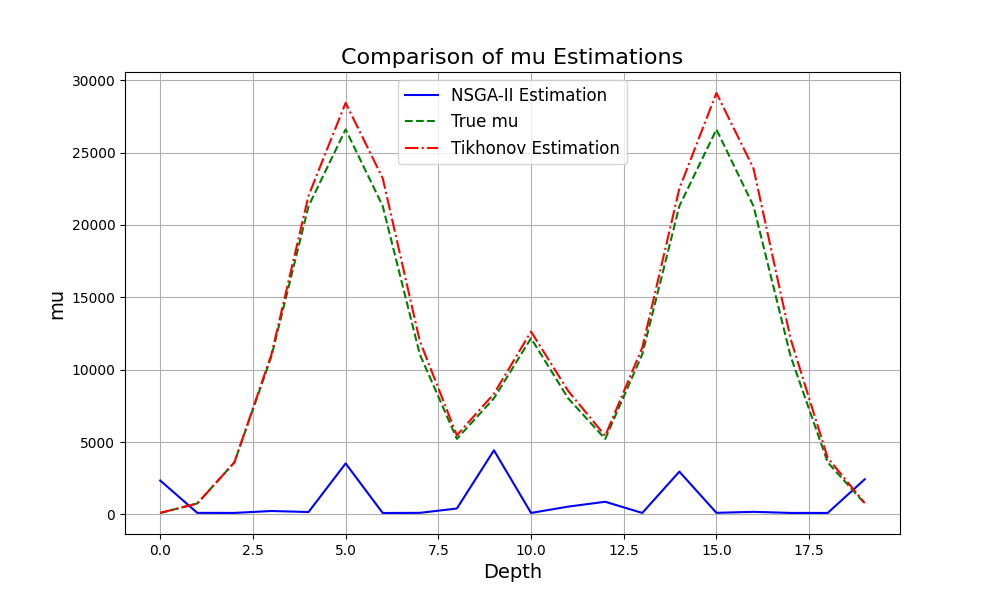
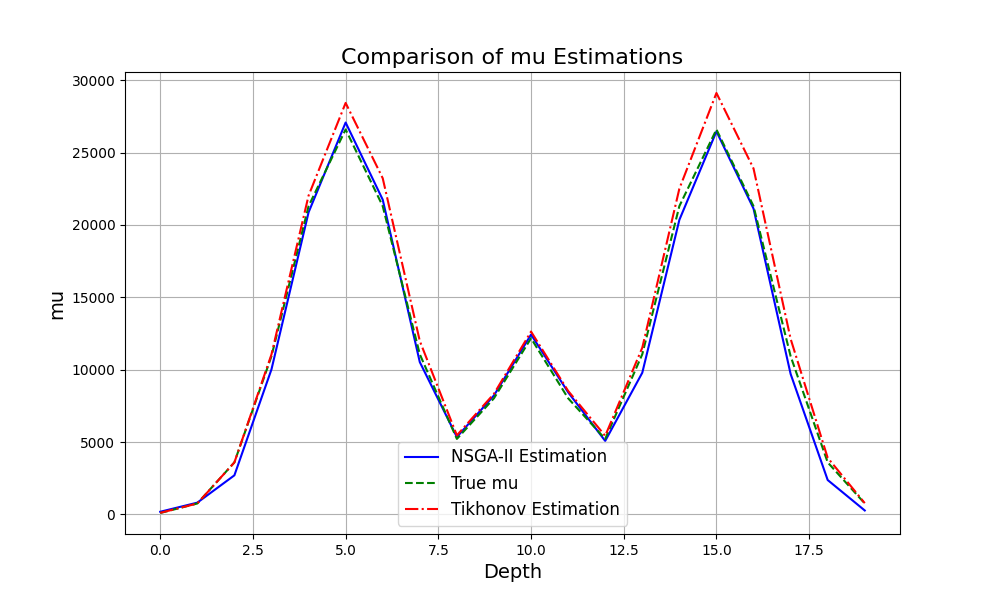
nsga-3

diff --git a/MO/MOP_Definition_Pymoo.py b/MO/MOP_Definition_Pymoo.py
@@ -1,8 +1,6 @@
 import numpy as np
 from pymoo.core.problem import Problem
 
-
-
 class ImageReconstructionProblem(Problem):
     def __init__(self, MODEL, PROBE, SIGNAL, n_var=None, b=None, tikhonov_aprox=None):
         self.b = b
@@ -10,14 +8,14 @@ class ImageReconstructionProblem(Problem):
         self.PROBE = PROBE
         self.SIGNAL = SIGNAL
         self.n_var = 20 if n_var is None else n_var
-        self.n_obj = 2
+        self.n_obj = 2  # Cambiar a 3 si añades un tercer objetivo
         if tikhonov_aprox is not None:
-            tikhonov_aprox = tikhonov_aprox.flatten()  # Asegurarse de que sea un vector de una dimensión
-            xl = tikhonov_aprox - 1000 # Asegurarse de que los límites sean adecuados (-1000)
-            xu = tikhonov_aprox + 10# Asegurarse de que los límites sean adecuados (+10)
+            tikhonov_aprox = tikhonov_aprox.flatten()
+            xl = np.maximum(0, tikhonov_aprox - 1000)  # Asegurar positividad
+            xu = tikhonov_aprox + 100
         else:
-            xl = 100
-            xu = 25000
+            xl = 0 # Establecer límite inferior en 0 para positividad
+            xu = 50000
         Problem.__init__(self, n_var=self.n_var, n_obj=self.n_obj, n_constr=0, xl=xl, xu=xu)
         
     def f1(self, x):
@@ -28,19 +26,35 @@ class ImageReconstructionProblem(Problem):
         squared_error = np.sum(np.abs(res) ** 2)
         return squared_error
 
+    def f3(self, x):
+        diffs = np.diff(x, axis=0)
+        smoothness_penalty = np.sum(diffs ** 2)
+        return smoothness_penalty
+
     def f2(self, x):
-        return -np.linalg.norm(x, ord=2)
-    # def f2(self, x):
-    #     # Penalizar la variación entre valores sucesivos en x
-    #     diffs = np.diff(x, axis=0)  # Calcular las diferencias sucesivas
-    #     variation_penalty = np.sum(diffs ** 2)  # Minimizar la suma de los cuadrados de las diferencias
-    #     return variation_penalty
+        return np.linalg.norm(x, ord=2)
+    
+    # Si deseas añadir un tercer objetivo para la esparsidad:
+    # def f3(self, x):
+    #     sparsity_penalty = np.sum(np.abs(x))
+    #     return sparsity_penalty
 
     def _evaluate(self, x, out, *args, **kwargs):
         f1_values = np.apply_along_axis(self.f1, 1, x)
         f2_values = np.apply_along_axis(self.f2, 1, x)
-        out["F"] = np.column_stack([f1_values, f2_values])
-    
+        f3_values = np.apply_along_axis(self.f3, 1, x)
+        
+        # Normalización (si es necesario)
+        f1_max = np.max(f1_values)
+        f2_max = np.max(f2_values)
+        f3_max = np.max(f3_values)
+        f1_values_normalized = f1_values / f1_max if f1_max != 0 else f1_values
+        f2_values_normalized = f2_values / f2_max if f2_max != 0 else f2_values
+        f3_values_normalized = f3_values / f3_max if f3_max != 0 else f3_values
+        
+        out["F"] = np.column_stack([f1_values_normalized, f2_values_normalized])
+
+
     def mo_estimation(self, d_est):
         mu_est_mo = np.zeros(self.MODEL.Nd)
         vec_a_est_mo = np.zeros(self.MODEL.Nd)
@@ -52,5 +66,3 @@ class ImageReconstructionProblem(Problem):
             mu_est_mo[iter] = d_est[iter] / np.prod(vec_a_est_mo[:iter])
 
         return mu_est_mo
-    
-    

diff --git a/NSGA_III_Baseline.py b/NSGA_III_Baseline.py
@@ -10,6 +10,9 @@ from SSM.Set_Settings import set_settings
 from SSM.Regularized_Estimation import regularized_estimation
 import numpy as np
 from pymoo.core.evaluator import Evaluator
+from pymoo.operators.crossover.sbx import SBX
+from pymoo.operators.mutation.pm import PolynomialMutation
+from pymoo.operators.crossover.ux import UniformCrossover
 
 
 from MO.MOP_Definition_Pymoo import ImageReconstructionProblem
@@ -27,13 +30,17 @@ n_var = 20
 tikhonov_aprox = regularized_estimation(MODEL, SIGNAL, dim=1).reshape(n_var)  # Asegurarse de que sea un vector de una dimensión
 
 
-problem = ImageReconstructionProblem(MODEL, PROBE, SIGNAL, n_var, tikhonov_aprox=None)
+problem = ImageReconstructionProblem(MODEL, PROBE, SIGNAL, n_var, tikhonov_aprox=tikhonov_aprox)
 
 # Crear las direcciones de referencia para la optimización
 ref_dirs = get_reference_directions("das-dennis", problem.n_obj, n_partitions=12)
 
 # Crear el objeto del algoritmo
-algorithm = NSGA3(pop_size=500, ref_dirs=ref_dirs)
+algorithm = NSGA3(pop_size=500, 
+                  ref_dirs=ref_dirs,
+                  crossover=SBX(prob=0.9, eta=15),
+                  mutation=PolynomialMutation(prob=0.9, eta=25),
+                  eliminate_duplicates=True)
 
 
 
